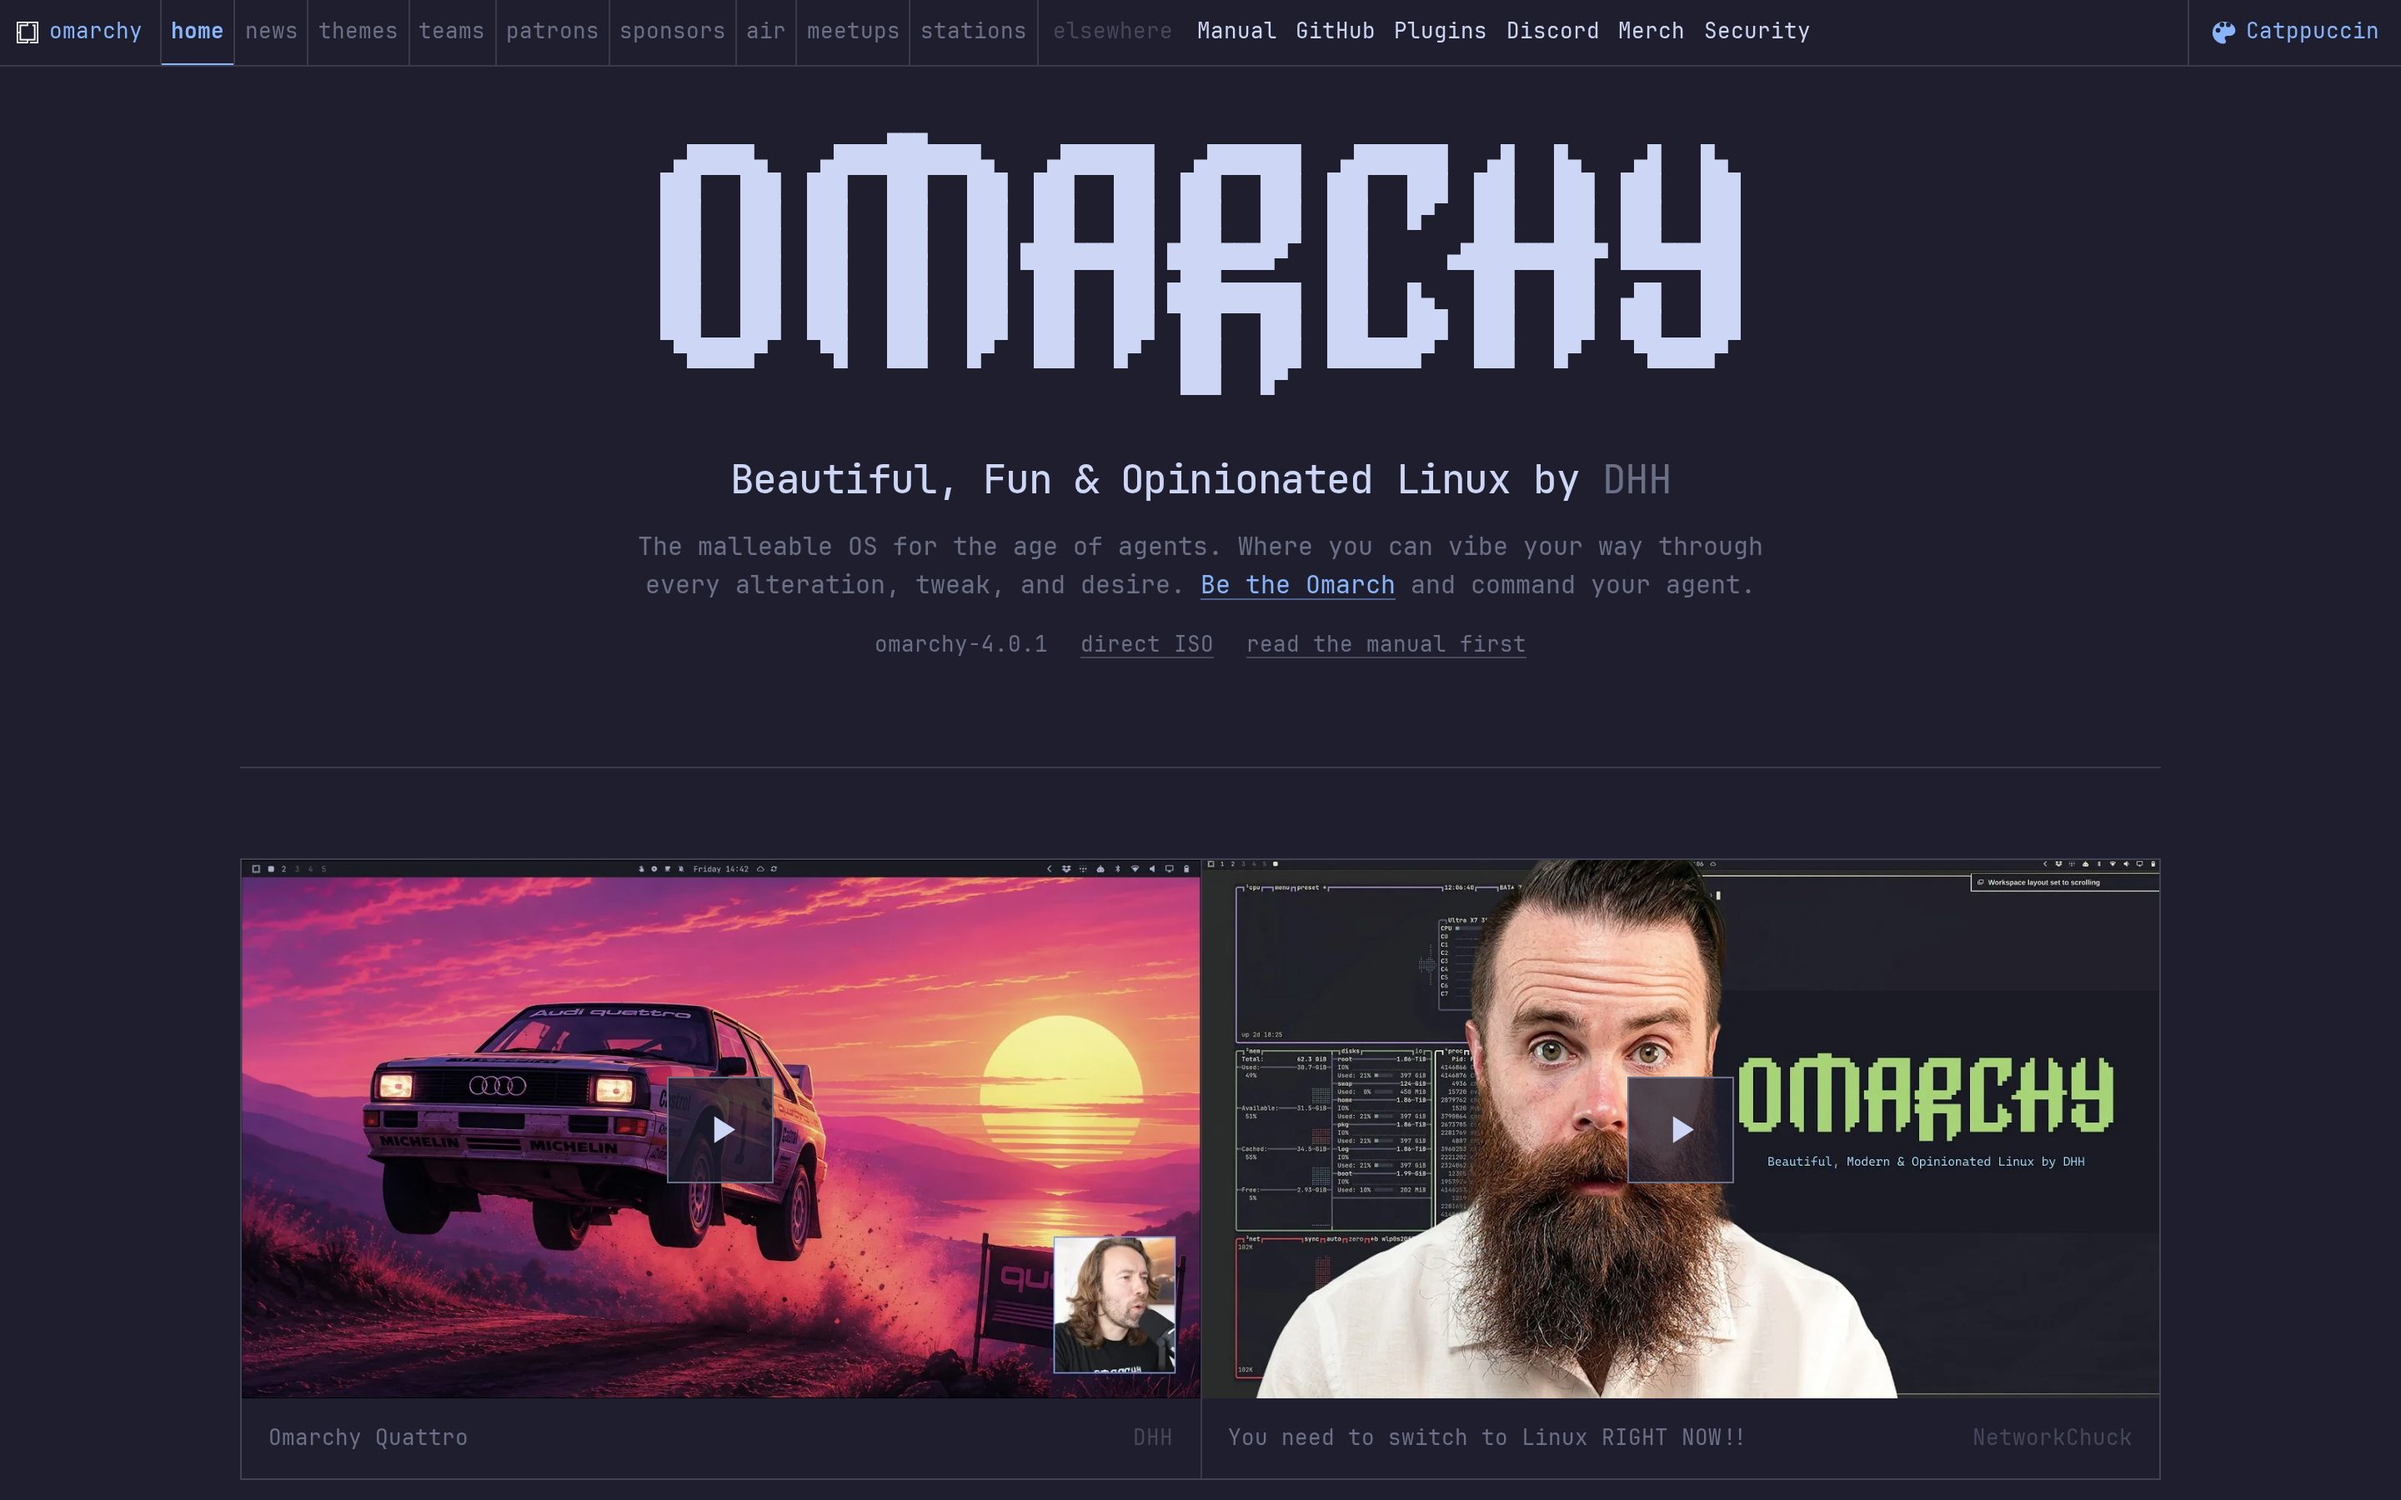
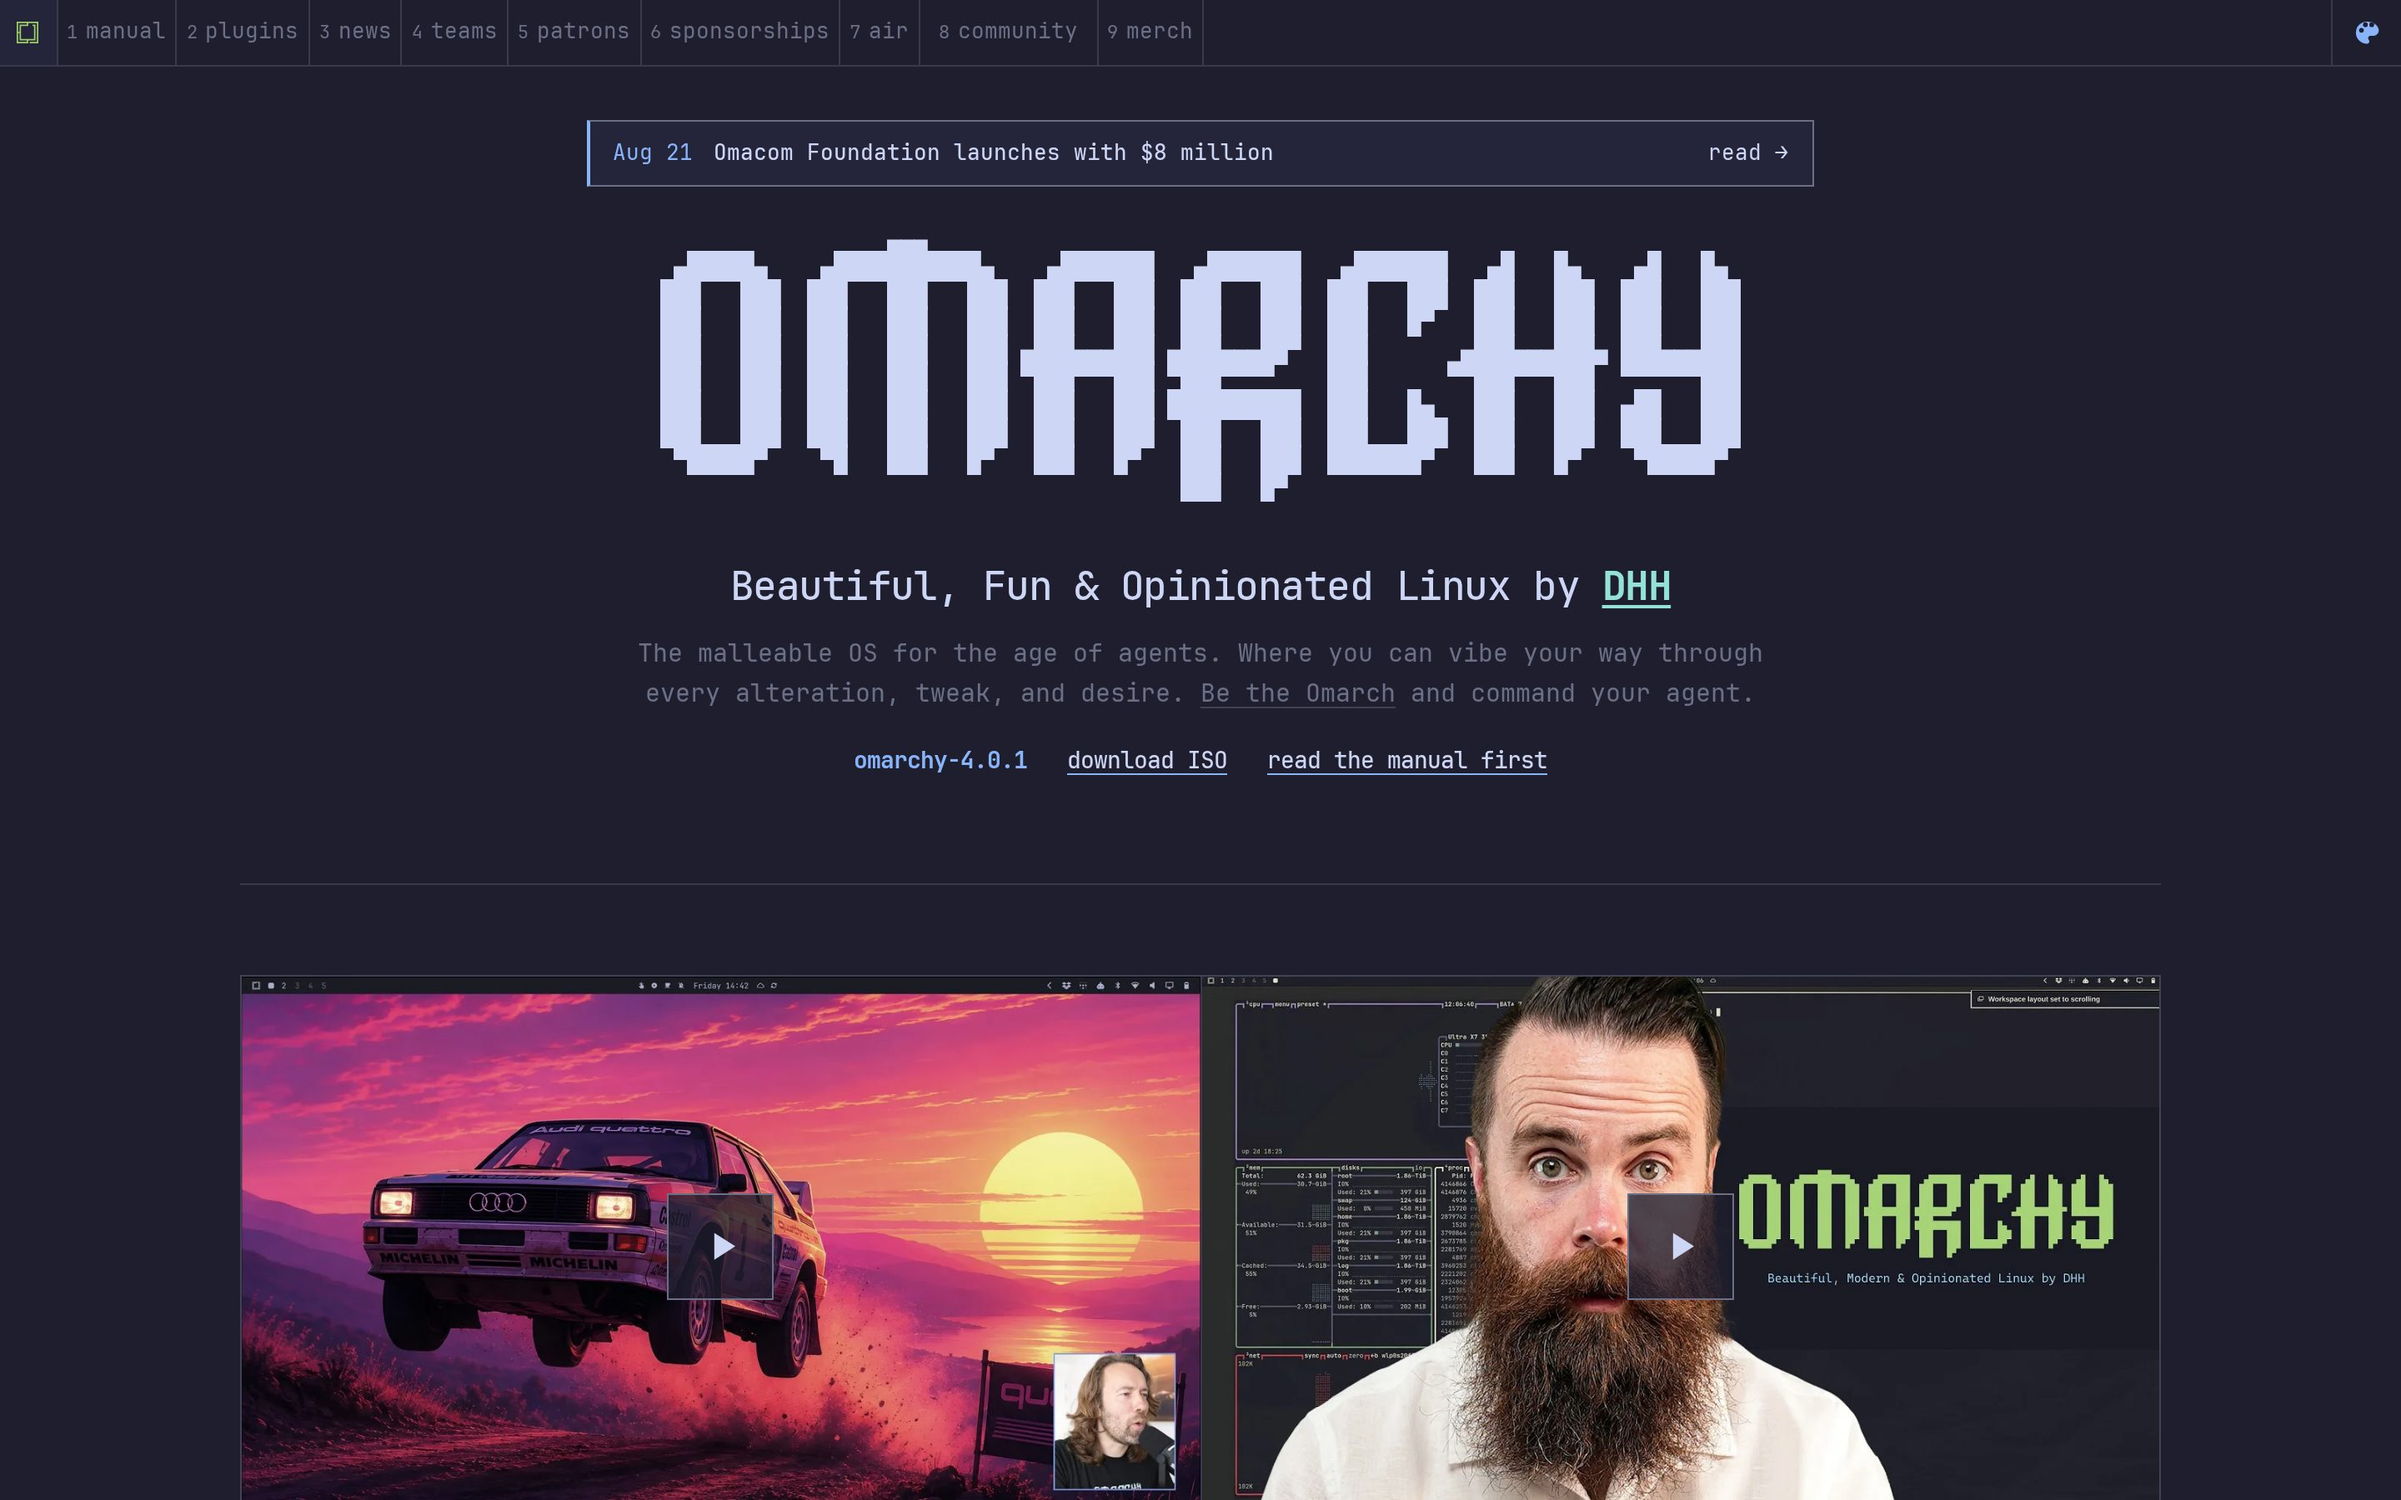
Refresh README screenshots to match the current waybar and pages.

diff --git a/README.md b/README.md
@@ -41,7 +41,7 @@ Every color is a semantic token, so switching palettes recolors the waybar, menu
 
 ## The rest of the site
 
-The chrome is a waybar. Pages are workspaces **1–9**. Everything else lives in the Omarchy menu.
+The chrome is a waybar. Home is the mark. Workspaces **1–9** are manual, plugins, news, teams, patrons, sponsorships, air, community, and merch. Everything else lives in the Omarchy menu.
 
 <p align="center">
   <img src="docs/screenshots/menu.jpg" alt="Omarchy menu" width="49%">
@@ -62,7 +62,7 @@ The chrome is a waybar. Pages are workspaces **1–9**. Everything else lives in
   <img src="docs/screenshots/workstations.jpg" alt="Workstations wall">
 </p>
 
-Home is the ASCII mark, install line, videos, and latest news. Then news, extra themes, teams, patrons, sponsorships, artists in residence, meetups, and the workstations wall.
+Home is the ASCII mark, install line, videos, and latest news. Then news, teams, patrons, sponsorships, artists in residence, and the workstations wall.
 
 ## Taste
 
